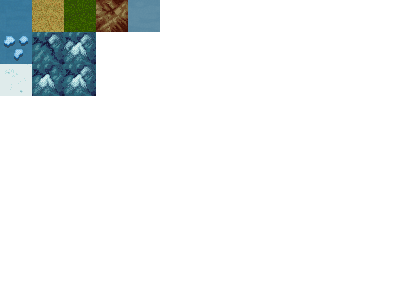
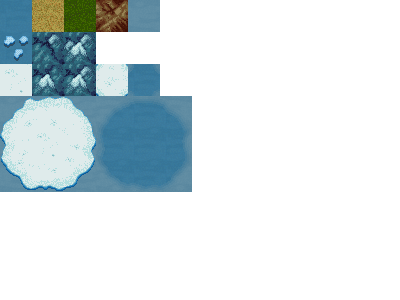
working on smoothing logic

Changed region(s): [[0.0, 0.21, 0.48, 0.66]]

diff --git a/app/models/world_builder.rb b/app/models/world_builder.rb
@@ -293,6 +293,7 @@ class WorldBuilder
       row.each_with_index do |cell, cell_index|
         neighboring_cells = neighbors(cells, row_index, cell_index)
 
+        ### Arctic Zones ###
 
         if cells[row_index][cell_index] == 'water'
           if row_index < (0 + rows/10) || row_index > (rows - rows/10)
@@ -324,11 +325,200 @@ class WorldBuilder
           end
         end
 
-        # if cells[row_index][cell_index] == 'dirt'
-        #   if row_index < (0 + rows/10) || row_index > (rows - rows/10)
-        #     if neighboring_cells
+        if cells[row_index][cell_index] == 'dirt'
+          if row_index < (0 + rows/10) || row_index > (rows - rows/10)
+            if neighboring_cells["west"] == 'shallow_water'
+              if neighboring_cells["north"] != 'shallow_water'
+                if neighboring_cells["south"] != 'shallow_water'
+                  cells[row_index][cell_index] = 'snow_water_w'
+                end
+              end
+            end
+          end
+        end
 
+        if cells[row_index][cell_index] == 'dirt'
+          if row_index < (0 + rows/10) || row_index > (rows - rows/10)
+            if neighboring_cells["east"] == 'shallow_water'
+              if neighboring_cells["north"] != 'shallow_water'
+                if neighboring_cells["south"] != 'shallow_water'
+                  cells[row_index][cell_index] = 'snow_water_e'
+                end
+              end
+            end
+          end
+        end
 
+        if cells[row_index][cell_index] == 'dirt'
+          if row_index < (0 + rows/10) || row_index > (rows - rows/10)
+            if neighboring_cells["north"] == 'shallow_water'
+              if neighboring_cells["west"] != 'shallow_water'
+                if neighboring_cells["east"] != 'shallow_water'
+                  cells[row_index][cell_index] = 'snow_water_n'
+                end
+              end
+            end
+          end
+        end
+
+        if cells[row_index][cell_index] == 'dirt'
+          if row_index < (0 + rows/10) || row_index > (rows - rows/10)
+            if neighboring_cells["south"] == 'shallow_water'
+              if neighboring_cells["east"] != 'shallow_water'
+                if neighboring_cells["west"] != 'shallow_water'
+                  cells[row_index][cell_index] = 'snow_water_s'
+                end
+              end
+            end
+          end
+        end
+
+        if cells[row_index][cell_index] == 'dirt'
+          if row_index < (0 + rows/10) || row_index > (rows - rows/10)
+            if neighboring_cells["north_west"] == 'shallow_water'
+              if neighboring_cells["west"] == 'shallow_water'
+                if neighboring_cells["north"] == 'shallow_water'
+                  cells[row_index][cell_index] = 'snow_water_nw'
+                end
+              end
+            end
+          end
+        end
+
+        if cells[row_index][cell_index] == 'dirt'
+          if row_index < (0 + rows/10) || row_index > (rows - rows/10)
+            if neighboring_cells["south_west"] == 'shallow_water'
+              if neighboring_cells["west"] == 'shallow_water'
+                if neighboring_cells["south"] == 'shallow_water'
+                  cells[row_index][cell_index] = 'snow_water_sw'
+                end
+              end
+            end
+          end
+        end
+
+       if cells[row_index][cell_index] == 'dirt'
+          if row_index < (0 + rows/10) || row_index > (rows - rows/10)
+            if neighboring_cells["north_east"] == 'shallow_water'
+              if neighboring_cells["east"] == 'shallow_water'
+                if neighboring_cells["north"] == 'shallow_water'
+                  cells[row_index][cell_index] = 'snow_water_ne'
+                end
+              end
+            end
+          end
+        end
+
+        if cells[row_index][cell_index] == 'dirt'
+          if row_index < (0 + rows/10) || row_index > (rows - rows/10)
+            if neighboring_cells["south_east"] == 'shallow_water'
+              if neighboring_cells["east"] == 'shallow_water'
+                if neighboring_cells["south"] == 'shallow_water'
+                  cells[row_index][cell_index] = 'snow_water_se'
+                end
+              end
+            end
+          end
+        end
+
+        if cells[row_index][cell_index] == 'dirt'
+          if row_index < (0 + rows/10) || row_index > (rows - rows/10)
+            if neighboring_cells["south_east"] == 'shallow_water' || neighboring_cells["south_west"] == 'shallow_water' ||
+            neighboring_cells["north_east"] == 'shallow_water' || neighboring_cells["north_west"] == 'shallow_water'
+              if neighboring_cells["east"] != 'shallow_water'
+                if neighboring_cells["south"] != 'shallow_water'
+                  if neighboring_cells["west"] != 'shallow_water'
+                    if neighboring_cells["north"] != 'shallow_water'
+                      cells[row_index][cell_index] = 'snow_water_connect'
+                    end
+                  end
+                end
+              end
+            end
+          end
+        end
+
+        ########
+
+        if cells[row_index][cell_index] == 'water'
+          if neighboring_cells["west"] == 'shallow_water'
+            if neighboring_cells["north"] != 'shallow_water'
+              if neighboring_cells["south"] != 'shallow_water'
+                cells[row_index][cell_index] = 'water_shallow_w'
+              end
+            end
+          end
+        end
+
+        if cells[row_index][cell_index] == 'water'
+          if neighboring_cells["east"] == 'shallow_water'
+            if neighboring_cells["north"] != 'shallow_water'
+              if neighboring_cells["south"] != 'shallow_water'
+                cells[row_index][cell_index] = 'water_shallow_e'
+              end
+            end
+          end
+        end
+
+        if cells[row_index][cell_index] == 'water'
+          if neighboring_cells["north"] == 'shallow_water'
+            if neighboring_cells["west"] != 'shallow_water'
+              if neighboring_cells["east"] != 'shallow_water'
+                cells[row_index][cell_index] = 'water_shallow_n'
+              end
+            end
+          end
+        end
+
+        if cells[row_index][cell_index] == 'water'
+          if neighboring_cells["south"] == 'shallow_water'
+            if neighboring_cells["east"] != 'shallow_water'
+              if neighboring_cells["west"] != 'shallow_water'
+                cells[row_index][cell_index] = 'water_shallow_s'
+              end
+            end
+          end
+        end
+
+        if cells[row_index][cell_index] == 'water'
+          if neighboring_cells["north_west"] == 'shallow_water'
+            if neighboring_cells["west"] == 'shallow_water'
+              if neighboring_cells["north"] == 'shallow_water'
+                cells[row_index][cell_index] = 'water_shallow_nw'
+              end
+            end
+          end
+        end
+
+        if cells[row_index][cell_index] == 'water'
+          if neighboring_cells["south_west"] == 'shallow_water'
+            if neighboring_cells["west"] == 'shallow_water'
+              if neighboring_cells["south"] == 'shallow_water'
+                cells[row_index][cell_index] = 'water_shallow_sw'
+              end
+            end
+          end
+        end
+
+        if cells[row_index][cell_index] == 'water'
+          if neighboring_cells["north_east"] == 'shallow_water'
+            if neighboring_cells["east"] == 'shallow_water'
+              if neighboring_cells["north"] == 'shallow_water'
+                cells[row_index][cell_index] = 'water_shallow_ne'
+              end
+            end
+          end
+        end
+
+        if cells[row_index][cell_index] == 'water'
+          if neighboring_cells["south_east"] == 'shallow_water'
+            if neighboring_cells["east"] == 'shallow_water'
+              if neighboring_cells["south"] == 'shallow_water'
+                cells[row_index][cell_index] = 'water_shallow_se'
+              end
+            end
+          end
+        end
 
 
       end
